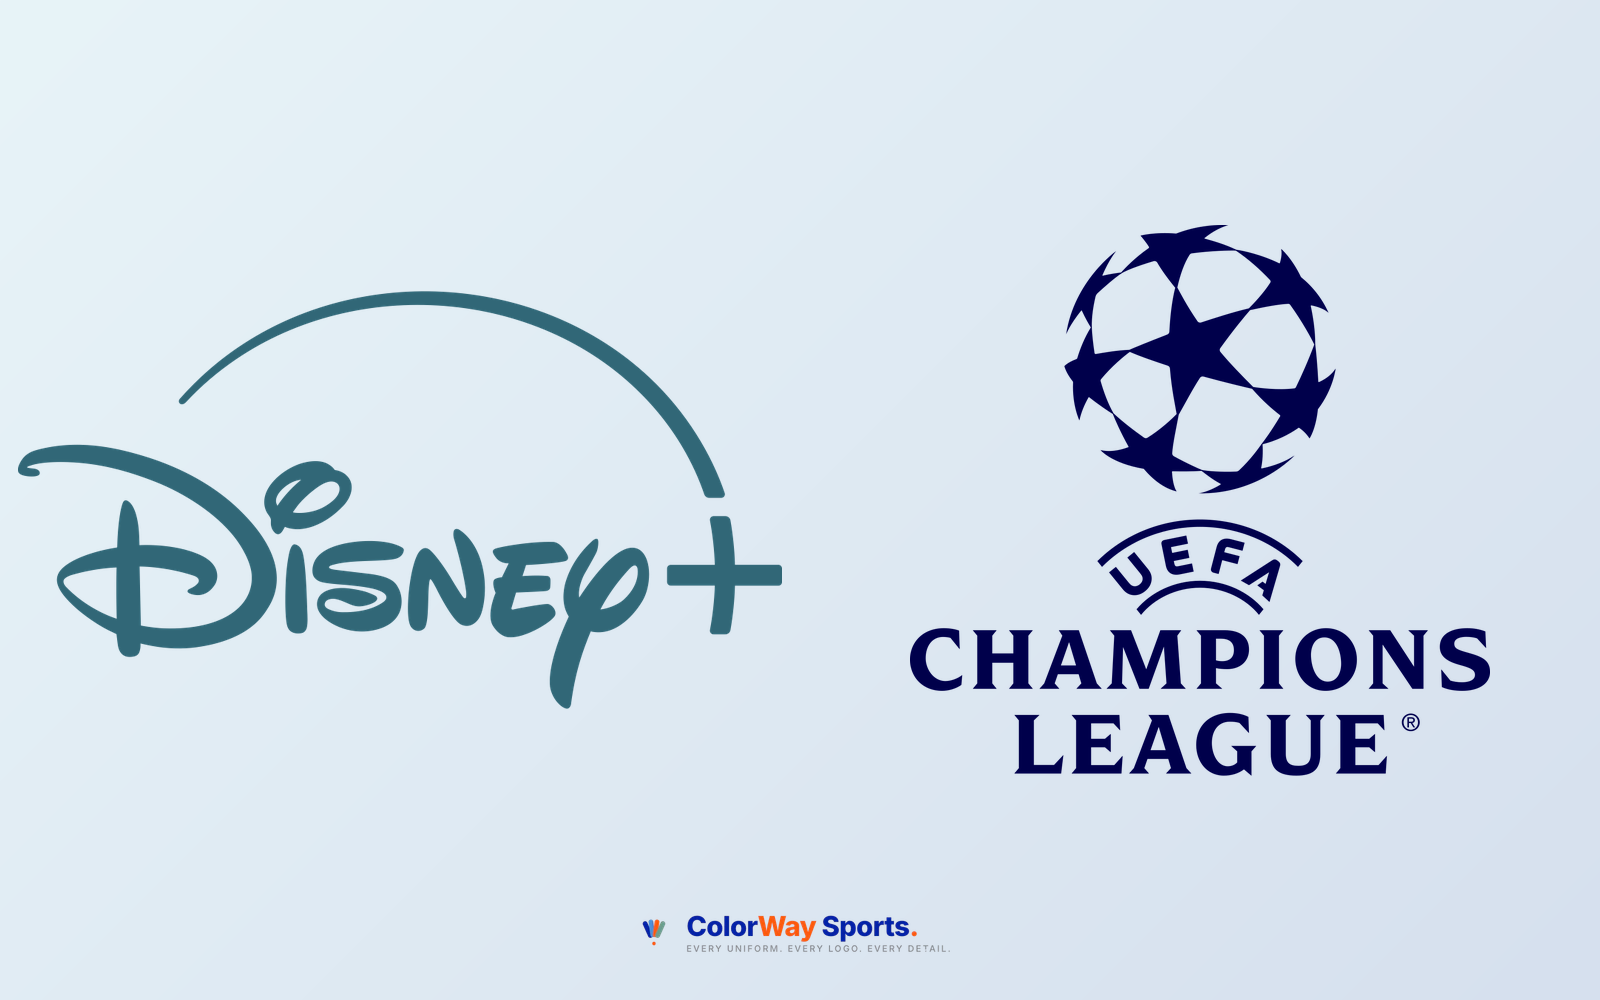
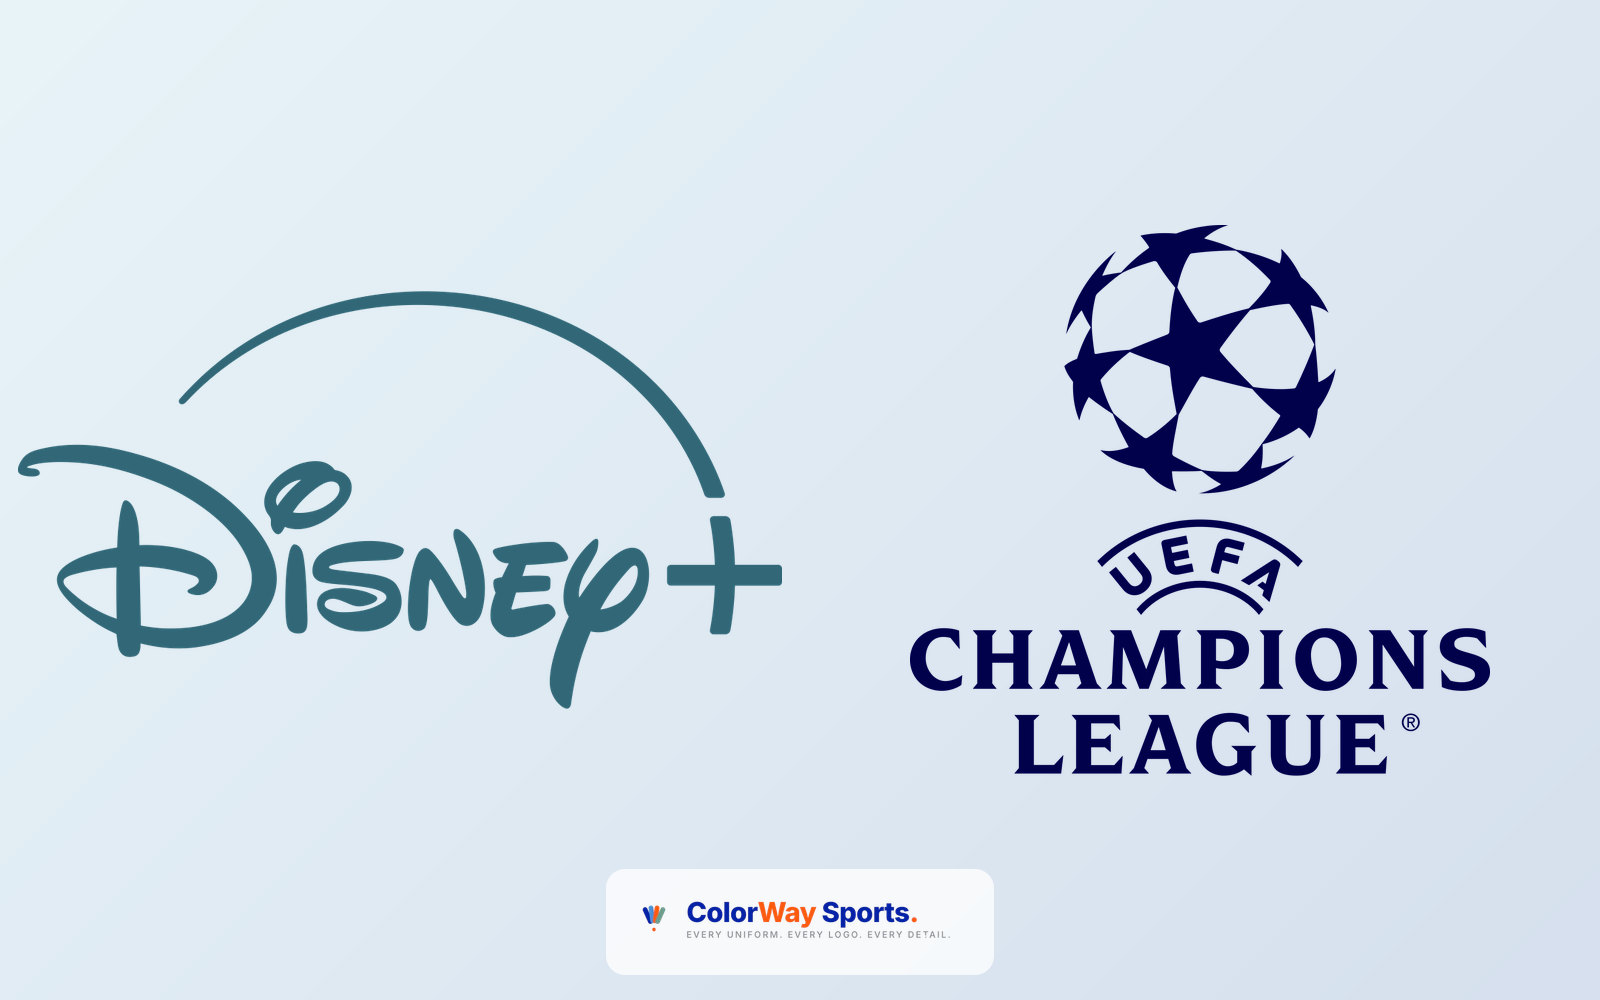
Watermark: add subtle white pad and lighter Pac-12 background
scripts/watermark.mjs now adds a low-opacity white rounded-rectangle pad behind the ColorWay Sports logo so it stays legible on dark backgrounds (Pac-12 navy gradient) while blending gracefully on light ones (Disney+, NBA themes covers). Pac-12 cover background also softened from pure black to a soft dark navy gradient so the white new-logo and dark-blue old-logo both read clean. Post header gradient updated to match.

Changed region(s): [[0.375, 0.868, 0.625, 0.992]]

diff --git a/content/posts/pac-12-new-logo-2026.md b/content/posts/pac-12-new-logo-2026.md
@@ -3,7 +3,7 @@ title: "Pac-12 New Logo 2026: Conference Reveals Bold Rebrand After Realignment"
 category: "College"
 date: "2026-04-27"
 excerpt: "The Pac-12 just dropped a new logo for 2026. We grade the rebrand and show how every team rolled out the mark in their own colors."
-gradient: "linear-gradient(135deg, #000000 0%, #000000 100%)"
+gradient: "linear-gradient(135deg, #2C3340 0%, #1A2030 100%)"
 league: "ncaa"
 teams: []
 coverImage: "/images/posts/pac-12-new-logo-2026/pac-12-old-vs-new.png"
